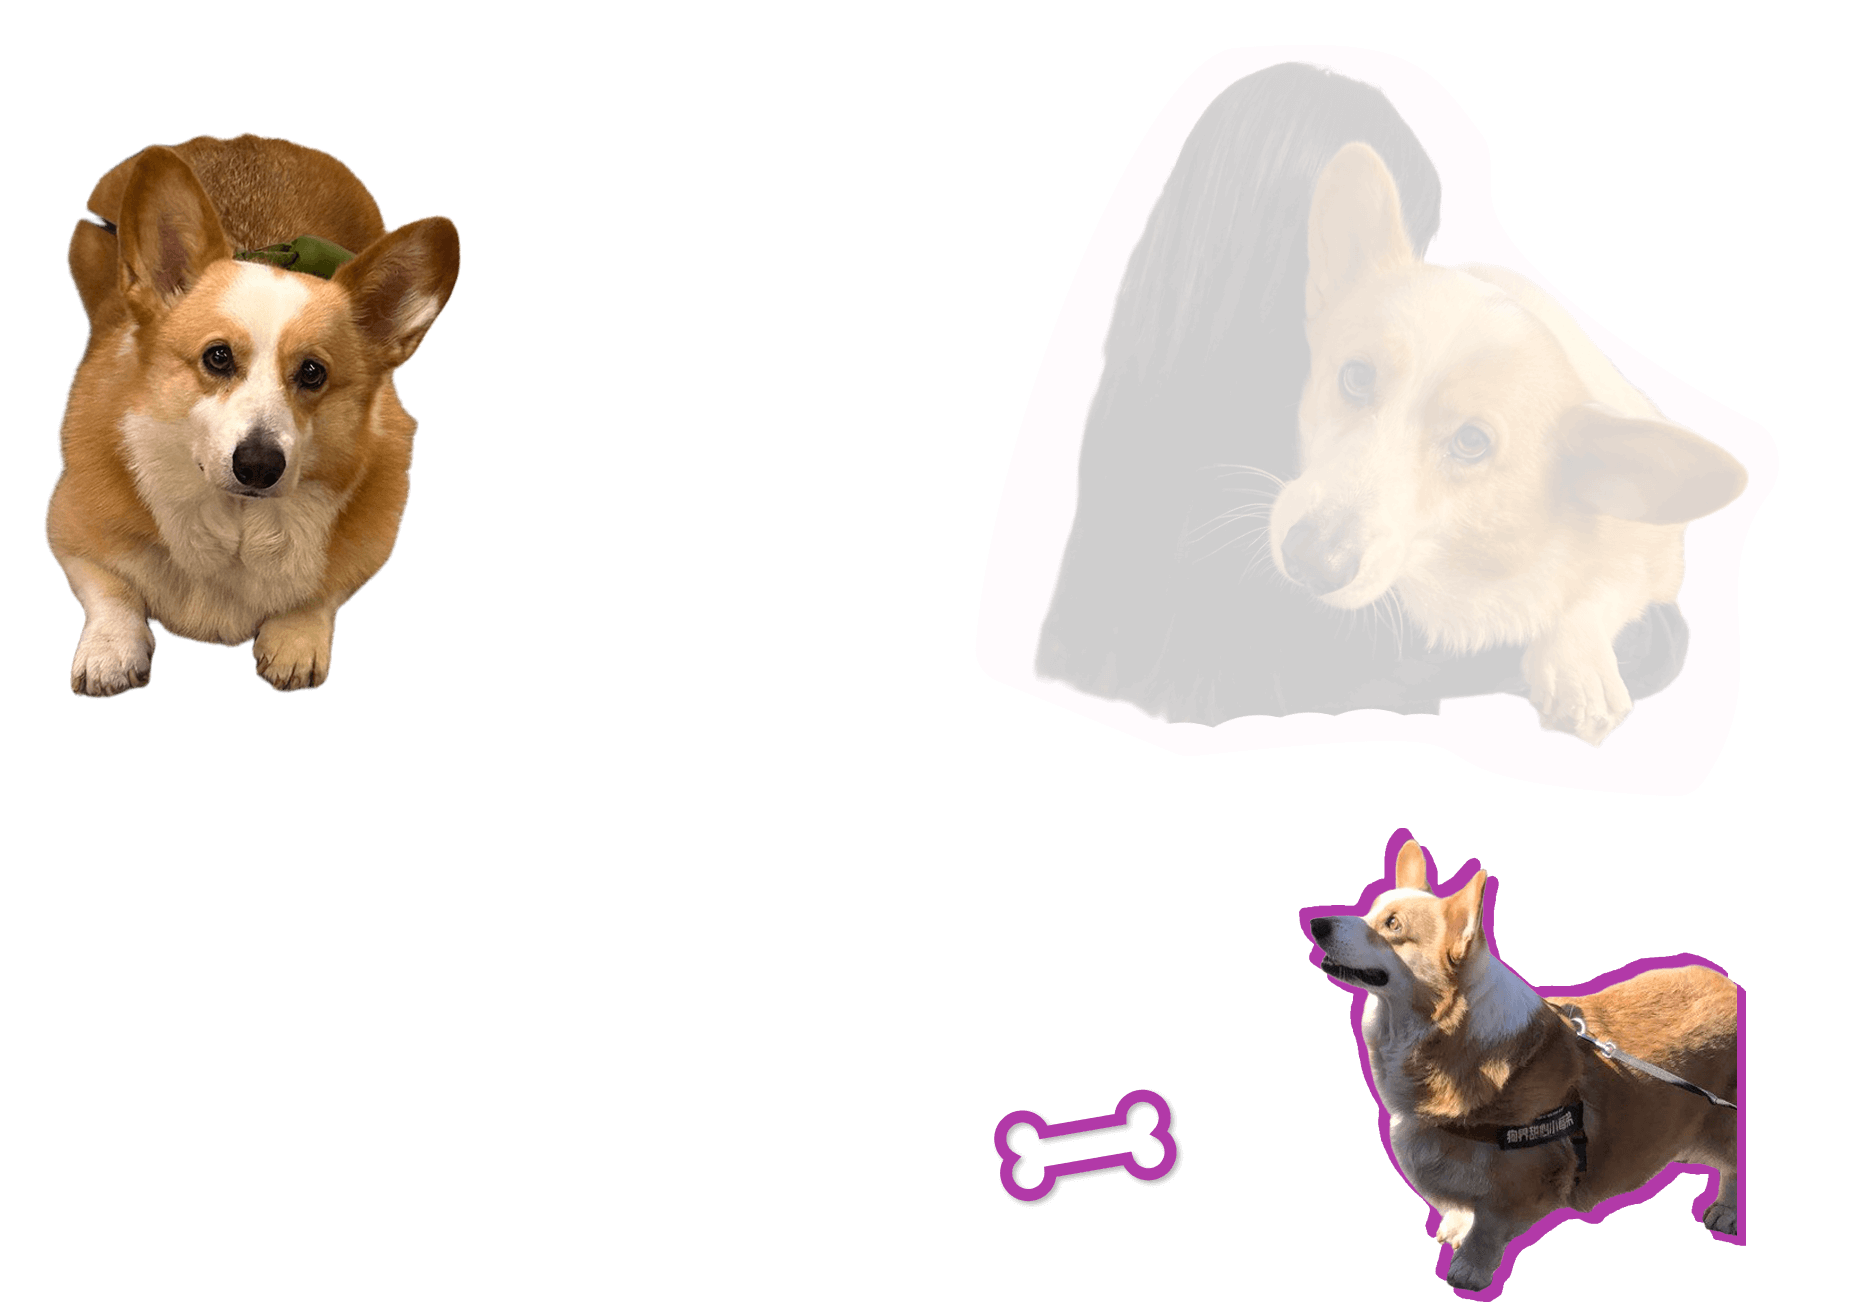
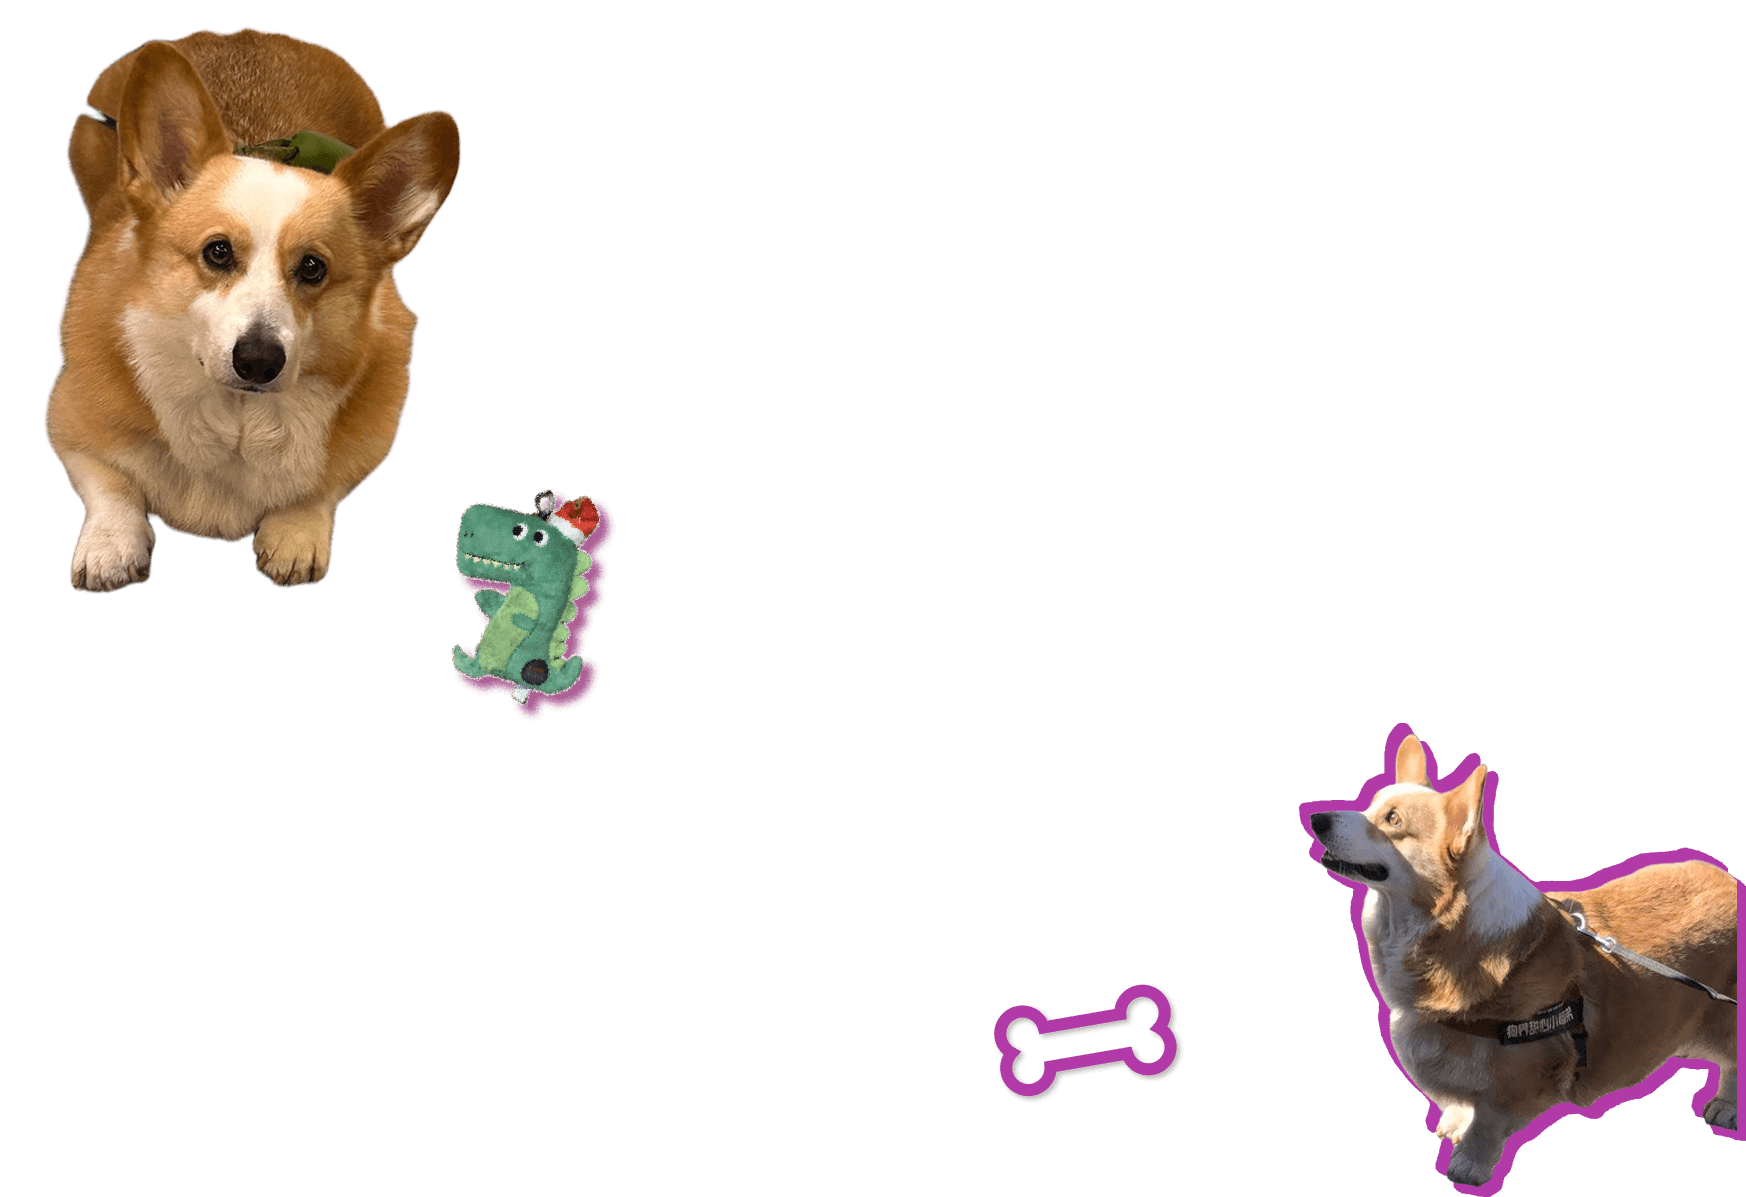
update meidi assets

diff --git a/src/components/config.ts b/src/components/config.ts
@@ -58,9 +58,8 @@ export const assets = {
   decorations: [
     [],
     [
-      { texture: asset('imgs/dec/meidi1.png'), parallaxFactor: 0.2, offset: { x: 2, y: -0.1, z: 0.016 }, scale: 1.22 },
-      { texture: asset('imgs/dec/meidi2.png'), parallaxFactor: 0.1, offset: { x: 0.1, y: -0.3, z: 0.015 }, scale: 1.08 },
-      { texture: asset('imgs/dec/meidi3.png'), parallaxFactor: 0.35, offset: { x: 3.4, y: 0.5, z: 0.014 }, scale: 0.75 },
+      { texture: asset('imgs/dec/meidi1.png'), parallaxFactor: 0.2, offset: { x: 2, y: -0.1, z: 0.016 }, scale: 1.25 },
+      { texture: asset('imgs/dec/meidi2.png'), parallaxFactor: 0.1, offset: { x: 0.8, y: -0.1, z: 0.015 }, scale: 1.2 },
     ],
     [
       { texture: asset('imgs/dec/jojo1.png'), parallaxFactor: 0.35, offset: { x: 2.76, y: -0.05, z: 0.014 }, scale: 1.28 },

diff --git a/src/App.svelte b/src/App.svelte
@@ -43,7 +43,6 @@
       <video
         class="w-[80%] md:w-[60%] mt-2 h-auto block mx-auto rounded-xl"
         playsinline
-        muted
         loop
         autoplay
       ></video>
